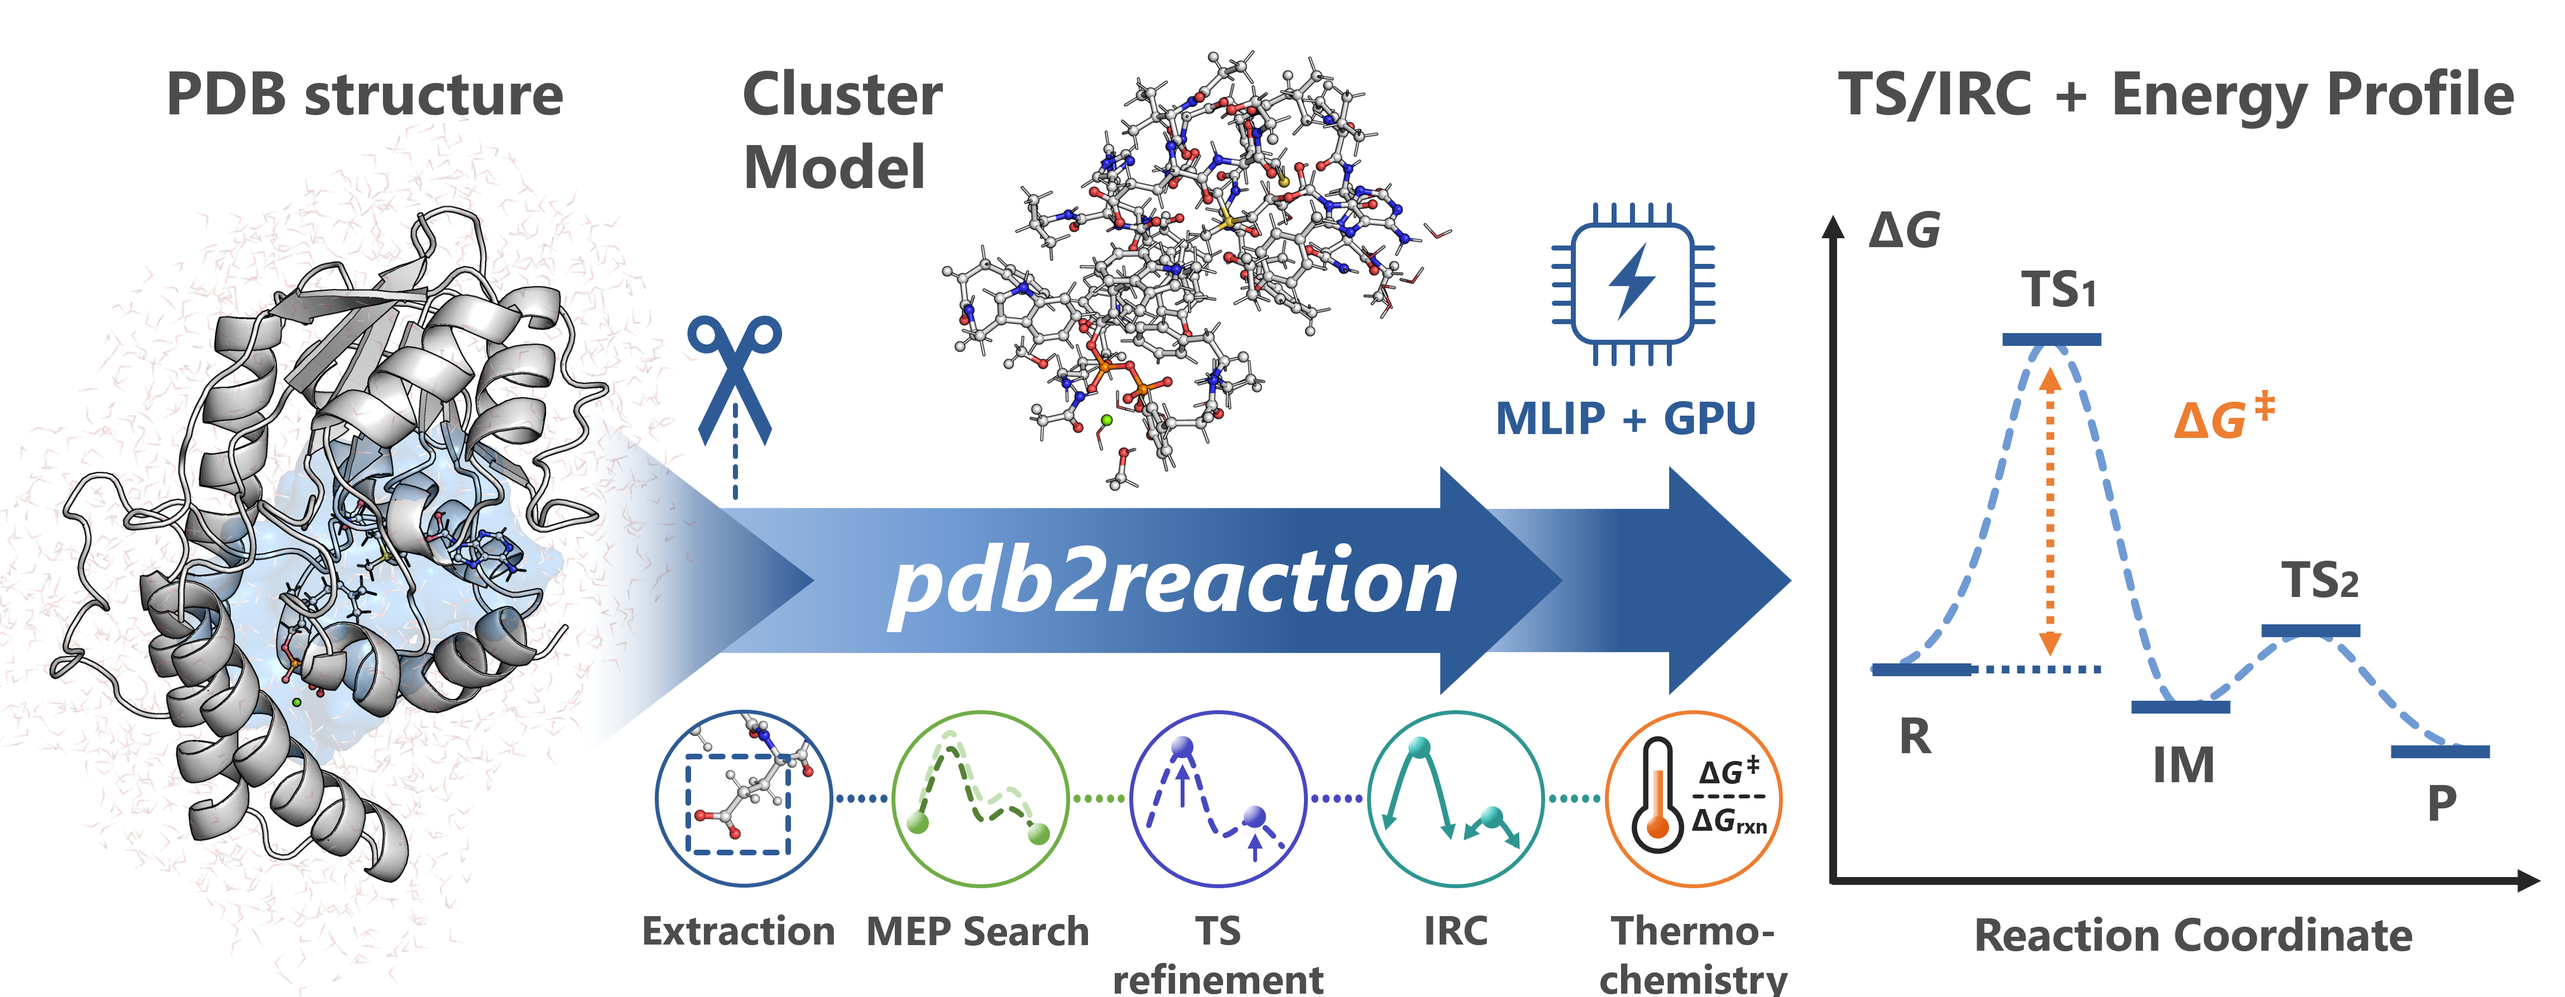
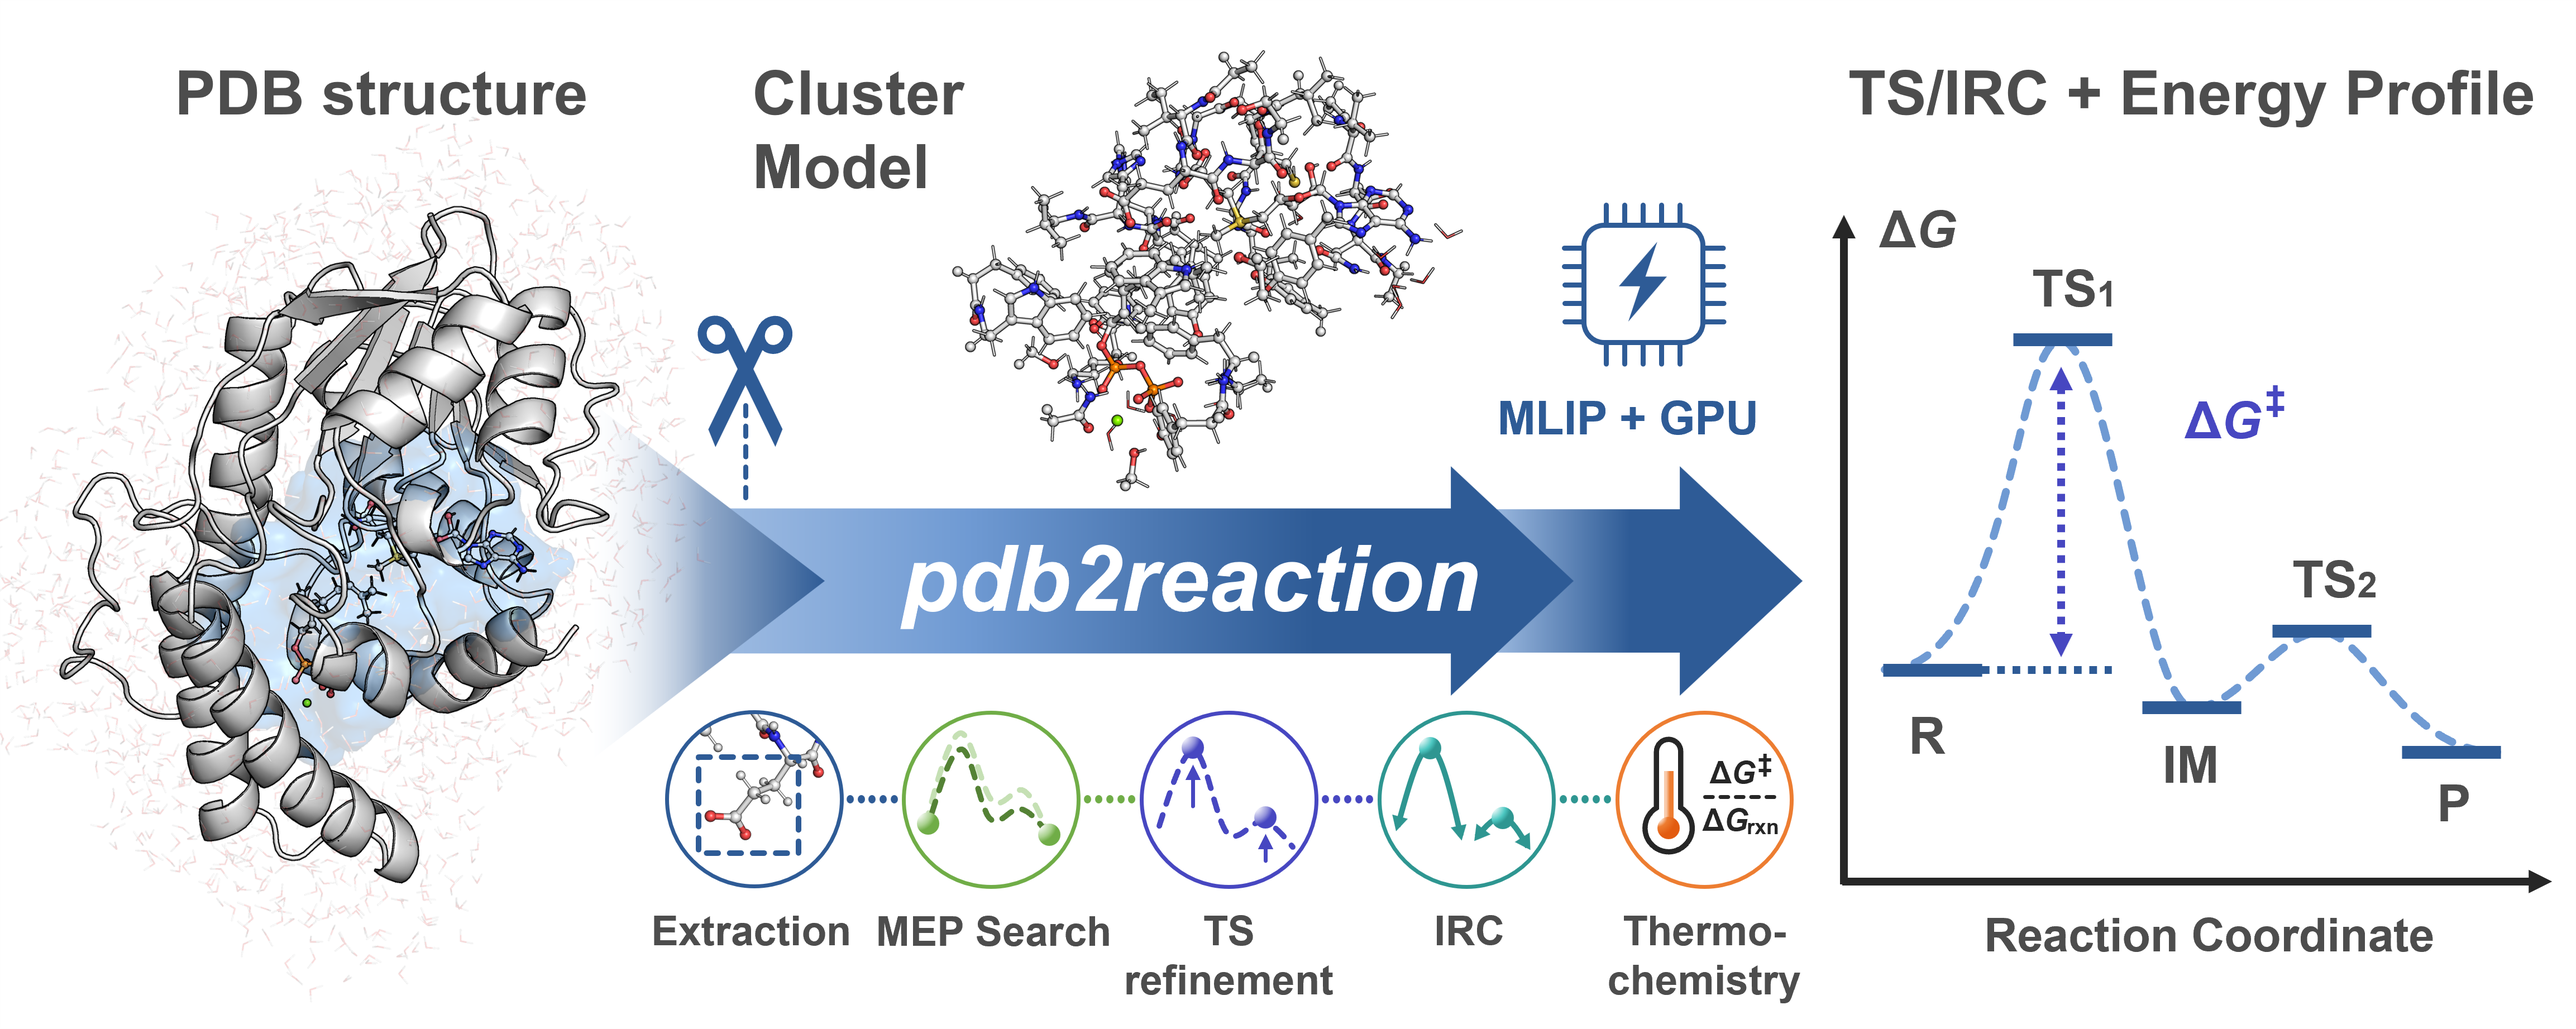
revise docs

diff --git a/docs/all.md b/docs/all.md
@@ -4,10 +4,12 @@
 
 `pdb2reaction all` runs the entire workflow end-to-end:
 
-Active site model extraction → (optional) staged scan → MEP search (recursive `path-search` by default) → (optional) TS optimization + IRC (`tsopt`) → (optional) vibrational analysis / thermochemistry (`freq`) → (optional) single-point DFT (`dft`). Use `--refine-path False` to fall back to single-pass `path-opt` (GSM/DMF). The default MLIP backend is UMA; select an alternative with `-b/--backend`.
+Active site model extraction → (optional) staged scan → MEP search (recursive `path-search` by default) → (optional) TS optimization + IRC (`tsopt`) → (optional) vibrational analysis / thermochemistry (`freq`) → (optional) single-point DFT (`dft`). Use `--refine-path False` to fall back to single-pass `path-opt` (GSM/DMF).  
+
+The default MLIP backend is UMA; select an alternative with `-b/--backend`.  
 
 ```{important}
-The `all` workflow **without `--tsopt`** produces **TS candidates** (Highest-Energy Images from MEP search). Adding `--tsopt` refines these into optimized TS structures validated by imaginary-frequency check, followed by IRC for endpoint validation. Always inspect the results (imaginary-frequency count + endpoint connectivity) before mechanistic interpretation.
+The `all` workflow **without `--tsopt`** produces **TS candidates** (Highest-Energy Images from MEP search). Adding `--tsopt` refines these into optimized TS structures validated by imaginary-frequency check, followed by IRC for endpoint validation. Always inspect the results (imaginary-frequency count + endpoint connectivity) before mechanistic interpretation.  
 ```
 
 ### At a glance

diff --git a/docs/scan2d.md b/docs/scan2d.md
@@ -2,7 +2,7 @@
 
 ## Overview
 
-> **Summary:** Perform a two-distance (d₁, d₂) grid scan with harmonic restraints and MLIP relaxations. Use `--scan-lists/-s` with a YAML/JSON spec file (recommended) or an inline Python literal.
+Perform a two-distance (d₁, d₂) grid scan with harmonic restraints and MLIP relaxations. Use `--scan-lists/-s` with a YAML/JSON spec file (recommended) or an inline Python literal.
 
 ### At a glance
 - **Use when:** You want a 2D potential-energy map over two distances `(d₁, d₂)` — e.g. to locate a TS region or visualize the reaction landscape before MEP refinement. Input is one structure + `-s/--scan-lists scan2d.yaml` (recommended), or a single `--scan-lists/-s` inline literal containing exactly two quadruples.
@@ -143,7 +143,7 @@ see {ref}`CLI Conventions: Scan-list spec <scan-list-spec>`.
 out_dir/ (default:./result_scan2d/)
 ├─ surface.csv # Structured grid table
 ├─ scan2d_map.png # 2D contour (requires Kaleido; the run stops if PNG export fails)
-├─ scan2d_landscape.html # 3D surface visualization
+├─ scan2d_landscape.html # 3D surface visualization (You can open it with Web browser)
 ├─ grid/point_iDDD_jDDD.xyz # DDD = round(d × 100) in Å (e.g. d1=1.30 Å, d2=3.10 Å -> point_i130_j310.xyz)
 ├─ grid/point_iDDD_jDDD.pdb # PDB companions when conversion is enabled and templates exist
 ├─ grid/point_iDDD_jDDD.gjf # Gaussian companions when templates exist and conversion is enabled

diff --git a/docs/scan3d.md b/docs/scan3d.md
@@ -2,7 +2,7 @@
 
 ## Overview
 
-> **Summary:** Perform a three-distance (d₁, d₂, d₃) grid scan with harmonic restraints and MLIP relaxations. Use `--scan-lists/-s` with a YAML/JSON spec file (recommended) or an inline Python literal; or plot an existing `surface.csv` via `--csv`.
+Perform a three-distance (d₁, d₂, d₃) grid scan with harmonic restraints and MLIP relaxations. Use `--scan-lists/-s` with a YAML/JSON spec file (recommended) or an inline Python literal; or plot an existing `surface.csv` via `--csv`.
 
 ### At a glance
 - **Use when:** A 3D potential-energy volume over three distances `(d₁, d₂, d₃)` is needed, or an existing `surface.csv` needs re-plotting. Input is one structure + `-s/--scan-lists scan3d.yaml` (recommended) or one `--scan-lists/-s` inline literal (three quadruples); `--csv` enables plot-only mode.
@@ -167,7 +167,7 @@ bias:
 ```
 out_dir/ (default:./result_scan3d/)
 ├─ surface.csv # Grid metadata; may include a reference row (i=j=k=-1)
-├─ scan3d_density.html # 3D energy isosurface visualization
+├─ scan3d_density.html # 3D energy isosurface visualization (You can open it with Web browser)
 ├─ grid/point_i###_j###_k###.xyz # Relaxed geometry for each grid point (Å×100 tags)
 ├─ grid/point_i###_j###_k###.pdb # PDB companions when conversion is enabled and templates exist
 ├─ grid/point_i###_j###_k###.gjf # Gaussian companions when templates exist and conversion is enabled

diff --git a/docs/tsopt.md b/docs/tsopt.md
@@ -2,7 +2,7 @@
 
 ## Overview
 
-> **Summary:** Optimize a transition-state *candidate* using RS-I-RFO (Restricted-Step Image Rational Function Optimization) (`--opt-mode hess`, default) or, as an alternative when RS-I-RFO struggles, Hessian-Guided Dimer (`--opt-mode grad`). `tsopt` performs a final Hessian calculation and imaginary-frequency check automatically; a validated TS (first-order saddle point) should show **exactly one** imaginary frequency. Always confirm endpoint connectivity with `irc`.
+Optimize a transition-state *candidate* using RS-I-RFO (Restricted-Step Image Rational Function Optimization) (`--opt-mode hess`, default) or, as an alternative when RS-I-RFO struggles, Hessian-Guided Dimer (`--opt-mode grad`). `tsopt` performs a final Hessian calculation and imaginary-frequency check automatically; a validated TS (first-order saddle point) should show **exactly one** imaginary frequency. Always confirm endpoint connectivity with `irc`.
 
 ### At a glance
 - **Use when:** Refining a TS guess (HEI from `path-opt`/`path-search`, or a user-supplied structure) into an optimized first-order saddle point with a built-in imaginary-frequency check.

diff --git a/docs/freeze-atoms.md b/docs/freeze-atoms.md
@@ -2,7 +2,7 @@
 
 ## Overview
 
-> **Summary:** Cluster models need a small set of atoms held in place at the truncation boundary so the optimizer cannot pull the dangling fragment into something unphysical. `pdb2reaction` handles this through **link hydrogens** (added at severed bonds by `extract`) and three layers of `freeze_atoms` specification.
+Cluster models need a small set of atoms held in place at the truncation boundary so the optimizer cannot pull the dangling fragment into something unphysical. `pdb2reaction` handles this through **link hydrogens** (added at severed bonds by `extract`) and three layers of `freeze_atoms` specification.
 
 When a residue is sliced out of a larger protein with `extract` sub-command, the bond at the boundary is capped with a **link hydrogen** (residue `LKH`, atom `HL`, 1.09 Å along the original bond vector). If the parent atom of that link hydrogen is left free, gradient descent will quietly relax the cap+parent pair into a different geometry, deforming the boundary. Freezing the relevant atoms keeps the boundary stationary throughout optimization, MEP search, IRC, and vibrational analysis.
 

diff --git a/docs/freq.md b/docs/freq.md
@@ -2,7 +2,7 @@
 
 ## Overview
 
-> **Summary:** Compute vibrational frequencies and thermochemistry (ZPE, Gibbs energy, etc.) with an MLIP backend (UMA by default; `-b/--backend` also supports ORB, MACE, AIMNet2). When VRAM permits, `--hessian-calc-mode Analytical` speeds Hessian evaluation. Imaginary frequencies appear as negative values.
+Compute vibrational frequencies and thermochemistry (ZPE, Gibbs energy, etc.) with an MLIP backend (UMA by default; `-b/--backend` also supports ORB, MACE, AIMNet2). When VRAM permits, `--hessian-calc-mode Analytical` speeds Hessian evaluation. Imaginary frequencies appear as negative values.
 
 ### At a glance
 - **Use when:** Full vibrational analysis is required (e.g., confirming a stationary point is a true minimum with no imaginary frequencies, or that a TS has exactly one) and/or thermochemistry corrections (ZPE, Gibbs energy) are needed. Note: `tsopt` already includes an imaginary-frequency check, so a separate `freq` run is mainly for thermochemistry or detailed mode inspection.

diff --git a/docs/scan.md b/docs/scan.md
@@ -2,7 +2,7 @@
 
 ## Overview
 
-> **Summary:** Drive a reaction coordinate by scanning bond distances with harmonic restraints. Use `--scan-lists/-s` to define targets as either a YAML/JSON spec file path (recommended) or inline Python literals.
+Drive a reaction coordinate by scanning bond distances with harmonic restraints. Use `--scan-lists/-s` to define targets as either a YAML/JSON spec file path (recommended) or inline Python literals.
 
 ### At a glance
 - **Use when:** A single structure needs specific distances driven to explore a plausible path (often before `path-search`/`path-opt`). Input is one structure + `-s/--scan-lists scan.yaml` (recommended), or one or more `--scan-lists/-s` inline literals (each literal = one stage). YAML/JSON file paths avoid shell-quoting pitfalls and version better; inline literals are fine for simple single-stage scans.

diff --git a/docs/irc.md b/docs/irc.md
@@ -2,7 +2,7 @@
 
 ## Overview
 
-> **Summary:** Runs EulerPC (Euler Predictor-Corrector)-based intrinsic reaction coordinate (IRC) integration from a transition state toward reactants and products. By default both forward and backward branches are computed. Setting `--hessian-calc-mode Analytical` is strongly recommended when VRAM permits.
+Runs EulerPC (Euler Predictor-Corrector)-based intrinsic reaction coordinate (IRC) integration from a transition state toward reactants and products. By default both forward and backward branches are computed. Setting `--hessian-calc-mode Analytical` is strongly recommended when VRAM permits.
 
 ### At a glance
 - **Use when:** Tracing the intrinsic reaction coordinate from an optimized TS (validated by `tsopt`) to confirm endpoint connectivity (R ↔ TS ↔ P).

diff --git a/docs/extract.md b/docs/extract.md
@@ -2,7 +2,7 @@
 
 ## Overview
 
-> **Summary:** Extract a cluster model (active site model (binding pocket)) from a protein–ligand PDB. Specify substrates with `-c` by residue name, residue ID, or a PDB path. Link hydrogens are added to cap cut bonds. Use `--ligand-charge/-l` for non-standard residue charges.
+Extract a cluster model (active site model (binding pocket)) from a protein–ligand PDB. Specify substrates with `-c` by residue name, residue ID, or a PDB path. Link hydrogens are added to cap cut bonds. Use `--ligand-charge/-l` for non-standard residue charges.
 
 ### At a glance
 - **Use when:** Carving an active site model (cluster model) from a protein–ligand PDB (single structure or ensemble) for downstream MEP/TSOPT/freq/DFT runs.

diff --git a/docs/path-search.md b/docs/path-search.md
@@ -2,7 +2,7 @@
 
 ## Overview
 
-> **Summary:** Build a continuous MEP from **two or more** structures with GSM (default) or DMF (`--mep-mode dmf`). Automatically refines only regions with bond changes and exports the highest-energy image (HEI) as a TS candidate (validate with tsopt + IRC).
+Build a continuous MEP from **two or more** structures with GSM (default) or DMF (`--mep-mode dmf`). Automatically refines only regions with bond changes and exports the highest-energy image (HEI) as a TS candidate (validate with tsopt + IRC).
 
 ### At a glance
 - **Use when:** R → … → P structures (2+ inputs) requiring a single stitched MEP with automatic refinement.

diff --git a/docs/bond-summary.md b/docs/bond-summary.md
@@ -2,7 +2,7 @@
 
 ## Overview
 
-> **Summary:** Detect and report covalent bond changes between consecutive molecular structures (R → TS → P or multi-intermediate chains) by element-specific covalent-radius perception.
+Detect and report covalent bond changes between consecutive molecular structures (R → TS → P or multi-intermediate chains) by element-specific covalent-radius perception.
 
 ### At a glance
 - **Use when:** Auditing which covalent bonds form / break between sequential structures along a reaction path — e.g. validating an IRC endpoint pair, screening multistep mechanisms, or sanity-checking `all` post-processing manually.

diff --git a/docs/opt.md b/docs/opt.md
@@ -2,7 +2,7 @@
 
 ## Overview
 
-> **Summary:** Optimizes a single structure toward a local minimum using L-BFGS (`--opt-mode grad`, default) or RFO (`--opt-mode hess`). Optional imaginary-frequency flattening can be enabled with `--flatten`.
+Optimizes a single structure toward a local minimum using L-BFGS (`--opt-mode grad`, default) or RFO (`--opt-mode hess`). Optional imaginary-frequency flattening can be enabled with `--flatten`.
 
 ### At a glance
 - **Use when:** Relaxing a single structure (PDB/XYZ/GJF/`_trj.xyz`) to a local minimum, optionally with distance restraints or imaginary-mode flattening.
